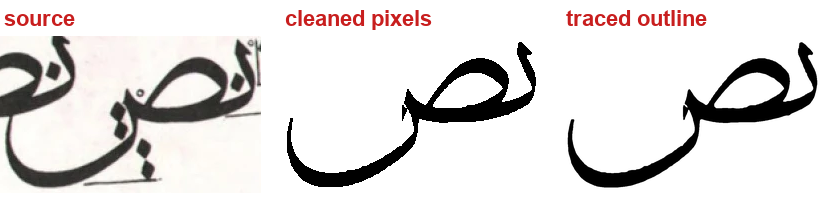
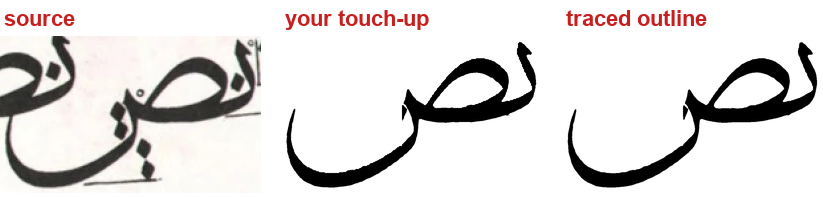
Final run-through: borrow the sad's tail tip for t7 بص; one review page for every waiting scan piece
borrowTail.py fits a vector piece onto a touch-up image and paints in only
the missing ink. The t8 meem's tail turned out complete, so nothing was
borrowed there.

Claude-Session: https://claude.ai/code/session_01XKSn9LffW5ruEBSXbs53N4

diff --git a/scripts/marks/thuluth/borrowTail.py b/scripts/marks/thuluth/borrowTail.py
@@ -1,0 +1,84 @@
+"""Borrow a cut-off tail from a vector piece, into a piece's touch-up image.
+usage: borrowTail.py TOUCHUP VECTOR_JSON KEY PX_PER_UNIT BOX OUT_PNG [write]
+
+TOUCHUP is touchup/<sheet>-<n>.png (the cleaned piece, 4x). The vector
+piece (VECTOR_JSON's KEY, library units) is drawn at PX_PER_UNIT and fitted
+onto the piece's ink: scale (+-15%), turn (+-8 deg) and position searched for
+the most shared ink. Only the vector's ink that the piece lacks, inside BOX
+(x0,y0,x1,y1 in touch-up px: where the tail was cut) and touching the
+piece's ink, is painted in. OUT_PNG shows piece / fitted vector / result;
+with `write`, the result replaces the touch-up file (the old one is kept as
+<file>.before.png), and tracePieces.py then traces it as a hand touch-up."""
+import sys, os, json, re, shutil
+import numpy as np, cv2
+from PIL import Image, ImageDraw
+
+tpath, vjson, key, ppu, box, out_png = sys.argv[1:7]
+ppu = float(ppu); bx0, by0, bx1, by1 = (int(v) for v in box.split(","))
+g = np.array(Image.open(tpath).convert("L"))
+A = g < 140
+d = json.load(open(vjson, encoding="utf-8"))[key]["d"]
+
+def polys(d):
+    toks = re.findall(r"[MCLZ]|-?\d+\.?\d*", d); subs, i, p = [], 0, None
+    while i < len(toks):
+        t = toks[i]; i += 1
+        if t == "M": p = (float(toks[i]), float(toks[i + 1])); i += 2; subs.append([p])
+        elif t == "L": p = (float(toks[i]), float(toks[i + 1])); i += 2; subs[-1].append(p)
+        elif t == "C":
+            a = [float(v) for v in toks[i:i + 6]]; i += 6
+            for s in np.linspace(0, 1, 9)[1:]:
+                u = 1 - s; subs[-1].append(tuple(u**3 * p[j] + 3 * u * u * s * a[j] + 3 * u * s * s * a[2 + j] + s**3 * a[4 + j] for j in (0, 1)))
+            p = (a[4], a[5])
+    return subs
+P = polys(d)
+
+def render(scale, ang):
+    c, s = np.cos(np.radians(ang)), np.sin(np.radians(ang))
+    pts = [[(scale * (c * x - s * y), scale * (s * x + c * y)) for x, y in q] for q in P]
+    xs = [x for q in pts for x, _ in q]; ys = [y for q in pts for _, y in q]
+    W, H = int(max(xs) - min(xs)) + 4, int(max(ys) - min(ys)) + 4
+    m = np.zeros((H, W), np.uint8)
+    for q in pts:   # nonzero would need winding; even-odd per subpath, OR'd, matches the vector sheets
+        one = np.zeros_like(m)
+        cv2.fillPoly(one, [np.round([(x - min(xs) + 2, y - min(ys) + 2) for x, y in q]).astype(np.int32)], 1)
+        m ^= one
+    return m
+
+pad = 400
+Ap = np.pad(A.astype(np.float32), pad)
+best = None
+for sc in np.linspace(0.85, 1.15, 13):
+    for ang in np.arange(-8, 8.1, 2):
+        B = render(ppu * sc, ang).astype(np.float32)
+        if B.shape[0] >= Ap.shape[0] or B.shape[1] >= Ap.shape[1]: continue
+        r = cv2.matchTemplate(Ap, B, cv2.TM_CCORR)
+        _, v, _, loc = cv2.minMaxLoc(r)
+        # shared ink, less the vector ink that lands on paper (so it can't just grow)
+        score = v - 0.5 * (B.sum() - v)
+        if best is None or score > best[0]: best = (score, sc, ang, loc, B)
+_, sc, ang, (lx, ly), B = best
+full = np.zeros_like(Ap, bool); full[ly:ly + B.shape[0], lx:lx + B.shape[1]] = B > 0
+full = full[pad:-pad, pad:-pad]
+extra = full & ~A
+inbox = np.zeros_like(A); inbox[by0:by1, bx0:bx1] = True
+extra &= inbox
+n, lab, st, _ = cv2.connectedComponentsWithStats(extra.astype(np.uint8), 8)
+touch = cv2.dilate(A.astype(np.uint8), np.ones((5, 5), np.uint8)) > 0
+add = np.zeros_like(A)
+for i in range(1, n):
+    if st[i][4] > 30 and (touch & (lab == i)).any(): add |= lab == i
+ink = int(np.median(g[A])) if A.any() else 40
+res = np.where(add, ink, g).astype(np.uint8)
+print(f"fit: scale {sc:.2f} turn {ang:+.0f} deg, shared {int((full & A).sum())} px, added {int(add.sum())} px")
+view = np.stack([np.where(A, 0, 255)] * 3, -1).astype(np.uint8)
+ov = view.copy(); ov[full & ~A] = (120, 170, 255); ov[full & A] = (60, 60, 160)
+rv = np.stack([res] * 3, -1); rv[add] = (200, 40, 40)
+page = Image.fromarray(np.vstack([view, ov, rv]))
+ImageDraw.Draw(page).rectangle((bx0, by0 + 2 * A.shape[0], bx1, by1 + 2 * A.shape[0]), outline=(0, 160, 0), width=3)
+page.save(out_png)
+if "write" in sys.argv[7:]:
+    before = tpath[:-4] + ".before.png"
+    if not os.path.exists(before): shutil.copy(tpath, before)
+    Image.fromarray(res).save(tpath)
+    print("written", tpath)

diff --git a/scripts/marks/thuluth/REVIEW.md b/scripts/marks/thuluth/REVIEW.md
@@ -1740,3 +1740,22 @@ Frames group, for review in the app:
 Panels t20–t32 as whole compositions: deferred by the user's leave
 ("if you don't think it is going to help"); they stay as reference images
 for the tarkib work.
+
+## The final run-through (2026-10-18)
+
+- **Borrowed tails** (`borrowTail.py`: fits a vector piece onto the
+  piece's touch-up image by scale, turn and position, then paints in only
+  the vector ink the piece lacks, inside a box and touching its ink; the old
+  touch-up is kept as `<file>.before.png`):
+  - t7r1 2 (بص): the sad's tail tip, ~10 scan px, from t34 38 (Sad,
+    finishing). Re-traced from the touch-up.
+  - t8r1 8 (ـحـم): fitted against t34 72, 73, 81, 83 and 84. The tail is
+    already full length with its hook; nothing borrowed. Asked the user
+    which part they meant was cut off.
+- **Superseded, suggested retired**: t1 3 (kaf), t2 1 (ha body), t2 24
+  (sad, tail cut off): the vector set's standalone Kaf, Jeem and Sad.
+- **Every piece still waiting on sheets 1, 2 and 7–19** (187) is on one
+  review page with a suggestion each (keep / retire / skip; 147 / 39 / 1):
+  https://claude.ai/artifact/Rf42rdVENpkY3q4Zcbvadc . The user's choices
+  are saved in its `choices` collection (doc id = the piece's ref with `_`
+  for the space). Keep = add to the library; retire = drop; skip = leave out.
